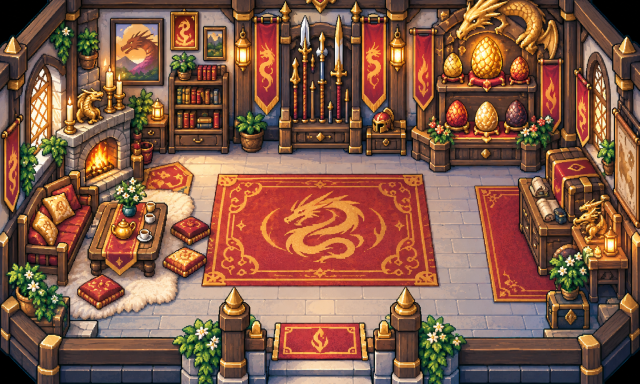
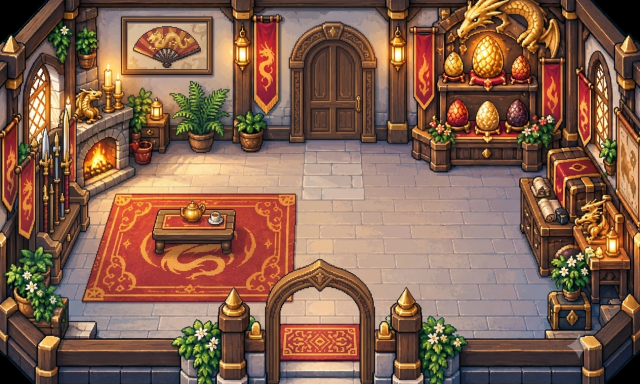
feat: add trophy room in hachi room

diff --git a/src/web/world/engine/world.ts b/src/web/world/engine/world.ts
@@ -1,6 +1,7 @@
 import { OVERWORLD_MAP } from "../data/maps";
 import { missionDefsFor, type MissionDef } from "../data/missionDefs";
 import { surfaceOf } from "../data/terrainDefs";
+import { HACHI_TOP_FANS, HACHI_TROPHY_ROOM_SCENE } from "../data/topFans";
 import { getCast } from "../data/worldCast";
 import { isBackwalk, oppositeFacing } from "../state/backwalk";
 import { evalCondition } from "../state/conditions";
@@ -25,8 +26,9 @@ import { createNpc, endTalk, npcBox, startTalk, stepNpc, type Npc } from "./npc"
 import { drawOnAirSign, findOnAirSigns, homeSignAnchor, onAirSignAt, onAirSize, type OnAirSign } from "./onAirSign";
 import { RunManager, type RunEvent } from "./runs";
 import {
-  VIEW_HEIGHT, VIEW_WIDTH, TILE, buildStaticOrder, drawBall, drawBuilding, drawCharacter, drawDebug, drawEdgePointer, drawHomeSign, drawInterior,
-  drawMarker, drawProp, drawPrompt, drawRunHud, drawSceneObject, drawSpectator, drawTargetArrow, isVisible, propVisible, spriteHeight, type StaticDrawable,
+  VIEW_HEIGHT, VIEW_WIDTH, TILE, buildStaticOrder, drawBall, drawBuilding, drawCharacter, drawDebug, drawEdgePointer, drawHachiTopFanPhotos, drawHomeSign,
+  drawInterior, drawMarker, drawProp, drawPrompt, drawRunHud, drawSceneObject, drawSpectator, drawTargetArrow, isVisible, propVisible, spriteHeight,
+  type StaticDrawable,
 } from "./render";
 import { SceneTransition, zoneIndexAt, type DoorTrigger, type ExaminePoint, type SceneObject, type SpectatorSpawn, type WorldScene } from "./scene";
 import { TerrainRenderer } from "./terrain";
@@ -347,6 +349,11 @@ export function createWorldEngine(options: WorldEngineOptions): WorldEngine {
     saveWorldSave({ ...store.save, player: playerId, scene: scene.id, x: player.x, y: player.y, facing: player.facing });
   }
 
+  /** Extra art a scene needs beyond its own room image (docs/world/01 §8 covers only `destination.image`). */
+  function extraAssetKeysFor(sceneId: SceneId): string[] {
+    return sceneId === HACHI_TROPHY_ROOM_SCENE ? HACHI_TOP_FANS.map((fan) => fan.photo) : [];
+  }
+
   function useDoor(door: DoorTrigger) {
     const to = door.to;
     const destination = getScene(to.scene);
@@ -355,7 +362,8 @@ export function createWorldEngine(options: WorldEngineOptions): WorldEngine {
     audio.playSfx(scene.kind === "interior" && to.scene === "overworld" ? "door-close" : enteringShop ? "door-bell" : "door-open");
     transition.start(async () => {
       // The room image loads while the screen is black and stays cached afterwards (docs/world/01 §8).
-      if (destination.image && !assets.has(destination.image)) await assets.load([destination.image]);
+      const need = [...(destination.image ? [destination.image] : []), ...extraAssetKeysFor(to.scene)].filter((key) => !assets.has(key));
+      if (need.length) await assets.load(need);
       enterScene(to.scene, to.x, to.y, to.facing);
       persist();
     });
@@ -723,6 +731,7 @@ export function createWorldEngine(options: WorldEngineOptions): WorldEngine {
     dynamics.sort((a, b) => a.y - b.y);
 
     if (scene.kind === "interior") {
+      if (scene.id === HACHI_TROPHY_ROOM_SCENE) drawHachiTopFanPhotos(ctx, assets, cam);
       drawInterior(ctx, assets, scene, cam);
       for (const spot of spectatorsNow) drawSpectator(ctx, assets, getCast(spot.cast), spot.x, spot.y, cam, time);
       for (const item of dynamics) item.draw(cam);
@@ -877,7 +886,8 @@ export function createWorldEngine(options: WorldEngineOptions): WorldEngine {
       const x = tile ? tile[0] * TILE + TILE / 2 : destination.spawn.x;
       const y = tile ? tile[1] * TILE + TILE / 2 : destination.spawn.y;
       transition.start(async () => {
-        if (destination.image && !assets.has(destination.image)) await assets.load([destination.image]);
+        const need = [...(destination.image ? [destination.image] : []), ...extraAssetKeysFor(id)].filter((key) => !assets.has(key));
+        if (need.length) await assets.load(need);
         enterScene(id, x, y, destination.kind === "interior" ? "up" : "down");
         persist();
       });

diff --git a/src/web/world/engine/render.ts b/src/web/world/engine/render.ts
@@ -1,6 +1,7 @@
 import type { CastDef, Facing, Rect } from "../types";
 import type { WorldAssets } from "../worldAssets";
 import type { MarkerKind } from "../state/missions";
+import { HACHI_TOP_FANS } from "../data/topFans";
 import { BALL_SIZE, ballBox, type Ball } from "./ball";
 import type { Camera } from "./camera";
 import { footBox } from "./collision";
@@ -475,6 +476,30 @@ export function drawInterior(ctx: CanvasRenderingContext2D, assets: WorldAssets,
   ctx.font = `12px ${FONT}`;
   ctx.textAlign = "center";
   ctx.fillText(scene.id, scene.size.w / 2 - camera.x, 24 - camera.y);
+}
+
+/**
+ * The hachi97 trophy room's podium (docs: house-hachi97-trophy). The room art punches a transparent
+ * hole where each frame is, so the photo is drawn first and `drawInterior` frames it from on top —
+ * this must run before that call (docs/world/01 §5).
+ */
+export function drawHachiTopFanPhotos(ctx: CanvasRenderingContext2D, assets: WorldAssets, camera: Camera) {
+  for (const fan of HACHI_TOP_FANS) {
+    const cx = Math.round(fan.frame.x - camera.x);
+    const cy = Math.round(fan.frame.y - camera.y);
+    const r = fan.frame.r;
+    const photo = assets.get(fan.photo);
+    ctx.save();
+    ctx.beginPath();
+    ctx.arc(cx, cy, r, 0, Math.PI * 2);
+    ctx.clip();
+    if (photo) ctx.drawImage(photo, cx - r, cy - r, r * 2, r * 2);
+    else {
+      ctx.fillStyle = "#cfc3d6";
+      ctx.fillRect(cx - r, cy - r, r * 2, r * 2);
+    }
+    ctx.restore();
+  }
 }
 
 // ── debug overlay ─────────────────────────────────────────────────────────────────────────

diff --git a/src/web/world/data/topFans.ts b/src/web/world/data/topFans.ts
@@ -1,0 +1,23 @@
+// The 잔디동 하치 트로피 룸 (interior:house-hachi97-trophy) podium: hachi97's top 5 SOOP 열혈팬, hand-entered
+// from the channel's Topfan widget. `frame` is the painted frame's centre and radius in final room px
+// (interiors are 640×384), measured against interiors/int-house-hachi97-trophy.webp. Name/badge are not
+// shown in-world (photo only); kept here so it's clear whose photo each slot holds.
+
+export interface TopFan {
+  rank: 1 | 2 | 3 | 4 | 5;
+  name: string;
+  badge: string;
+  /** Asset key under `topfans/`, a circle-cropped photo (falls back to a plain disc when missing). */
+  photo: string;
+  frame: { x: number; y: number; r: number };
+}
+
+export const HACHI_TROPHY_ROOM_SCENE = "interior:house-hachi97-trophy";
+
+export const HACHI_TOP_FANS: readonly TopFan[] = [
+  { rank: 1, name: "우리하치!", badge: "회장", photo: "topfans/hachi-trophy-1", frame: { x: 320, y: 88, r: 27 } },
+  { rank: 2, name: "환승연애중", badge: "부회장", photo: "topfans/hachi-trophy-2", frame: { x: 215, y: 109, r: 27 } },
+  { rank: 3, name: "류햇귀텐카이", badge: "3등", photo: "topfans/hachi-trophy-3", frame: { x: 428, y: 109, r: 27 } },
+  { rank: 4, name: "양나리", badge: "4등", photo: "topfans/hachi-trophy-4", frame: { x: 530, y: 138, r: 28 } },
+  { rank: 5, name: "_로코_", badge: "5등", photo: "topfans/hachi-trophy-5", frame: { x: 113, y: 138, r: 28 } },
+];

diff --git a/src/web/world/worldAssets.ts b/src/web/world/worldAssets.ts
@@ -1,6 +1,7 @@
 import { INTERIOR_MAPS, OVERWORLD_MAP } from "./data/maps";
 import { PROP_DEFS, propAssetKey } from "./data/propDefs";
 import { TERRAIN_SHEETS, terrainAssetKey } from "./data/terrainDefs";
+import { HACHI_TOP_FANS, HACHI_TROPHY_ROOM_SCENE } from "./data/topFans";
 import { PLAYABLE_CAST, WORLD_CAST } from "./data/worldCast";
 import type { CastId, SceneId } from "./types";
 
@@ -100,6 +101,7 @@ export function assetKeysForGroup(group: AssetGroup, player: CastId | null, star
   const keys = [...overworldKeys(), ...missionKeys(), ...WORLD_UI_KEYS, ...WORLD_CAST.map((cast) => `characters/${cast.id}-atlas`)];
   if (player) keys.push(`characters/${player}-atlas`);
   if (startScene?.startsWith("interior:")) keys.push(`interiors/int-${startScene.slice("interior:".length)}`);
+  if (startScene === HACHI_TROPHY_ROOM_SCENE) keys.push(...HACHI_TOP_FANS.map((fan) => fan.photo));
   return keys;
 }
 

diff --git a/src/web/world/data/maps/mapIntegrity.test.ts b/src/web/world/data/maps/mapIntegrity.test.ts
@@ -78,8 +78,8 @@ const residents = (scene: WorldScene) => scene.npcSpawns.filter((spawn) => !spaw
 const npcRects = (scene: WorldScene) => residents(scene).map((spawn) => footBox(spawn.x, spawn.y, NPC_BOX.w, NPC_BOX.h));
 
 describe("map data shape", () => {
-  it("has 19 interiors and the 80×60 overworld with 60 rows of 80 legend characters", () => {
-    expect(INTERIOR_IDS).toHaveLength(19);
+  it("has 20 interiors and the 80×60 overworld with 60 rows of 80 legend characters", () => {
+    expect(INTERIOR_IDS).toHaveLength(20);
     expect(OVERWORLD_MAP.size).toEqual([80, 60]);
     expect(OVERWORLD_MAP.terrainRows).toHaveLength(60);
     for (const row of OVERWORLD_MAP.terrainRows) {
